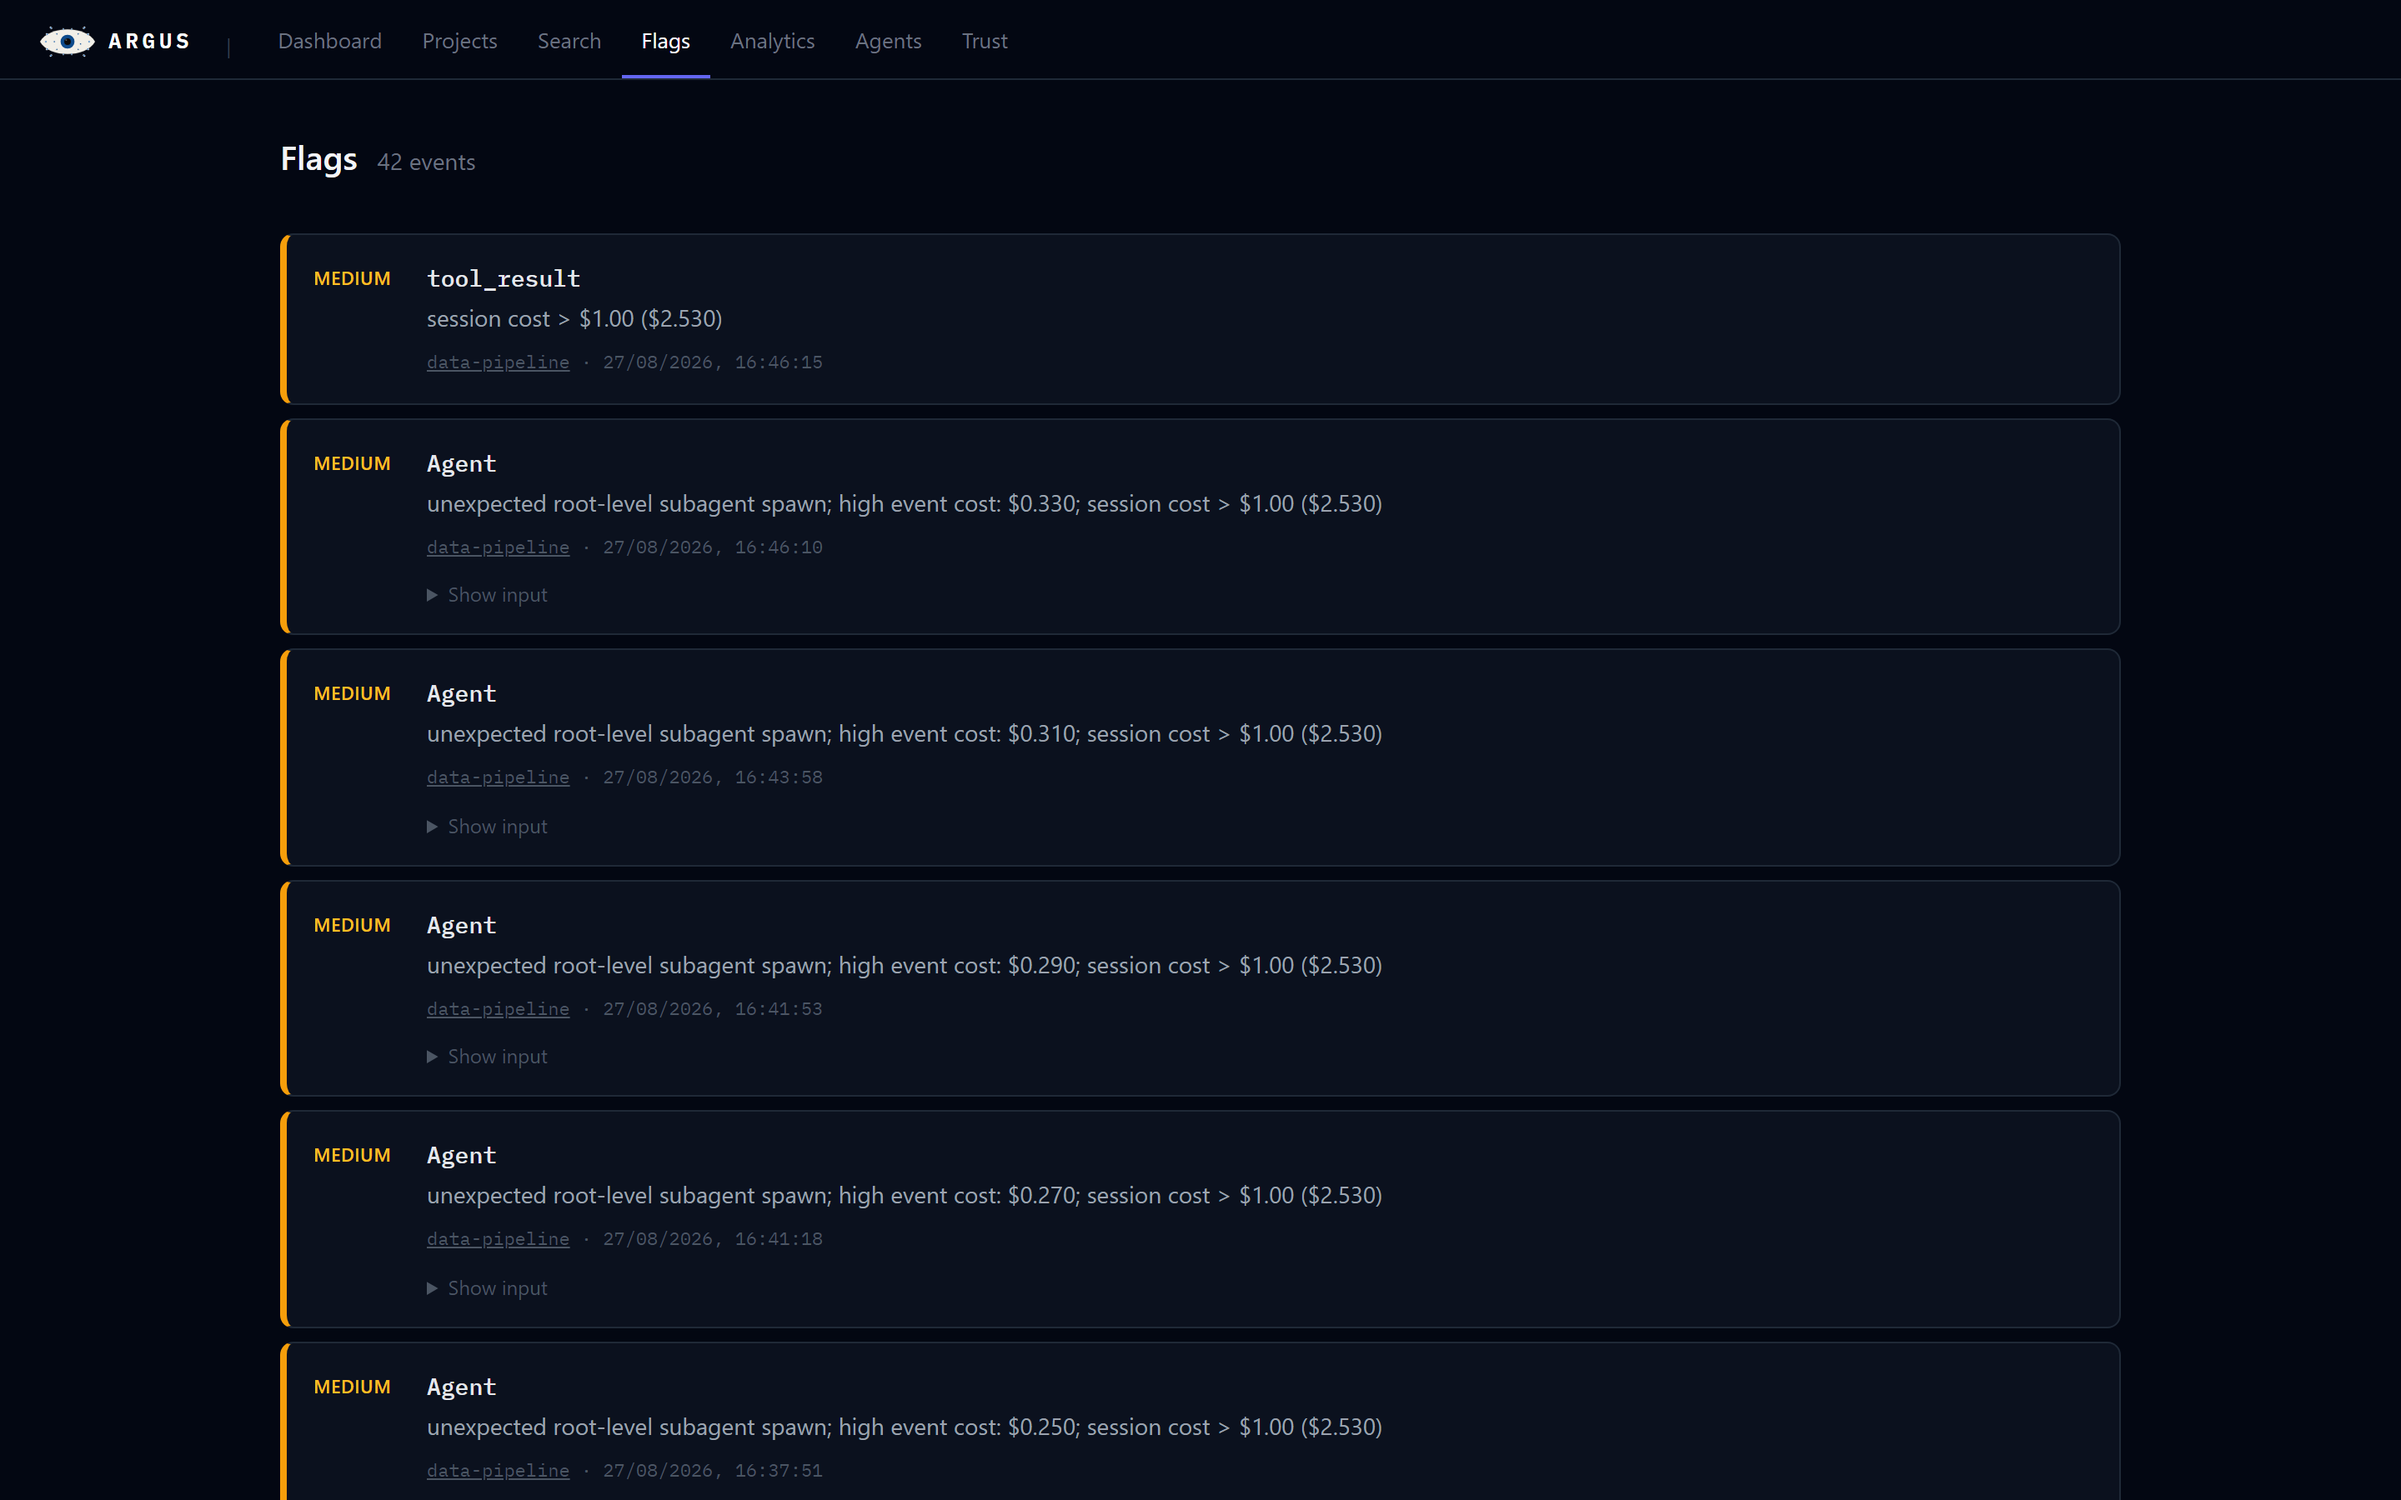
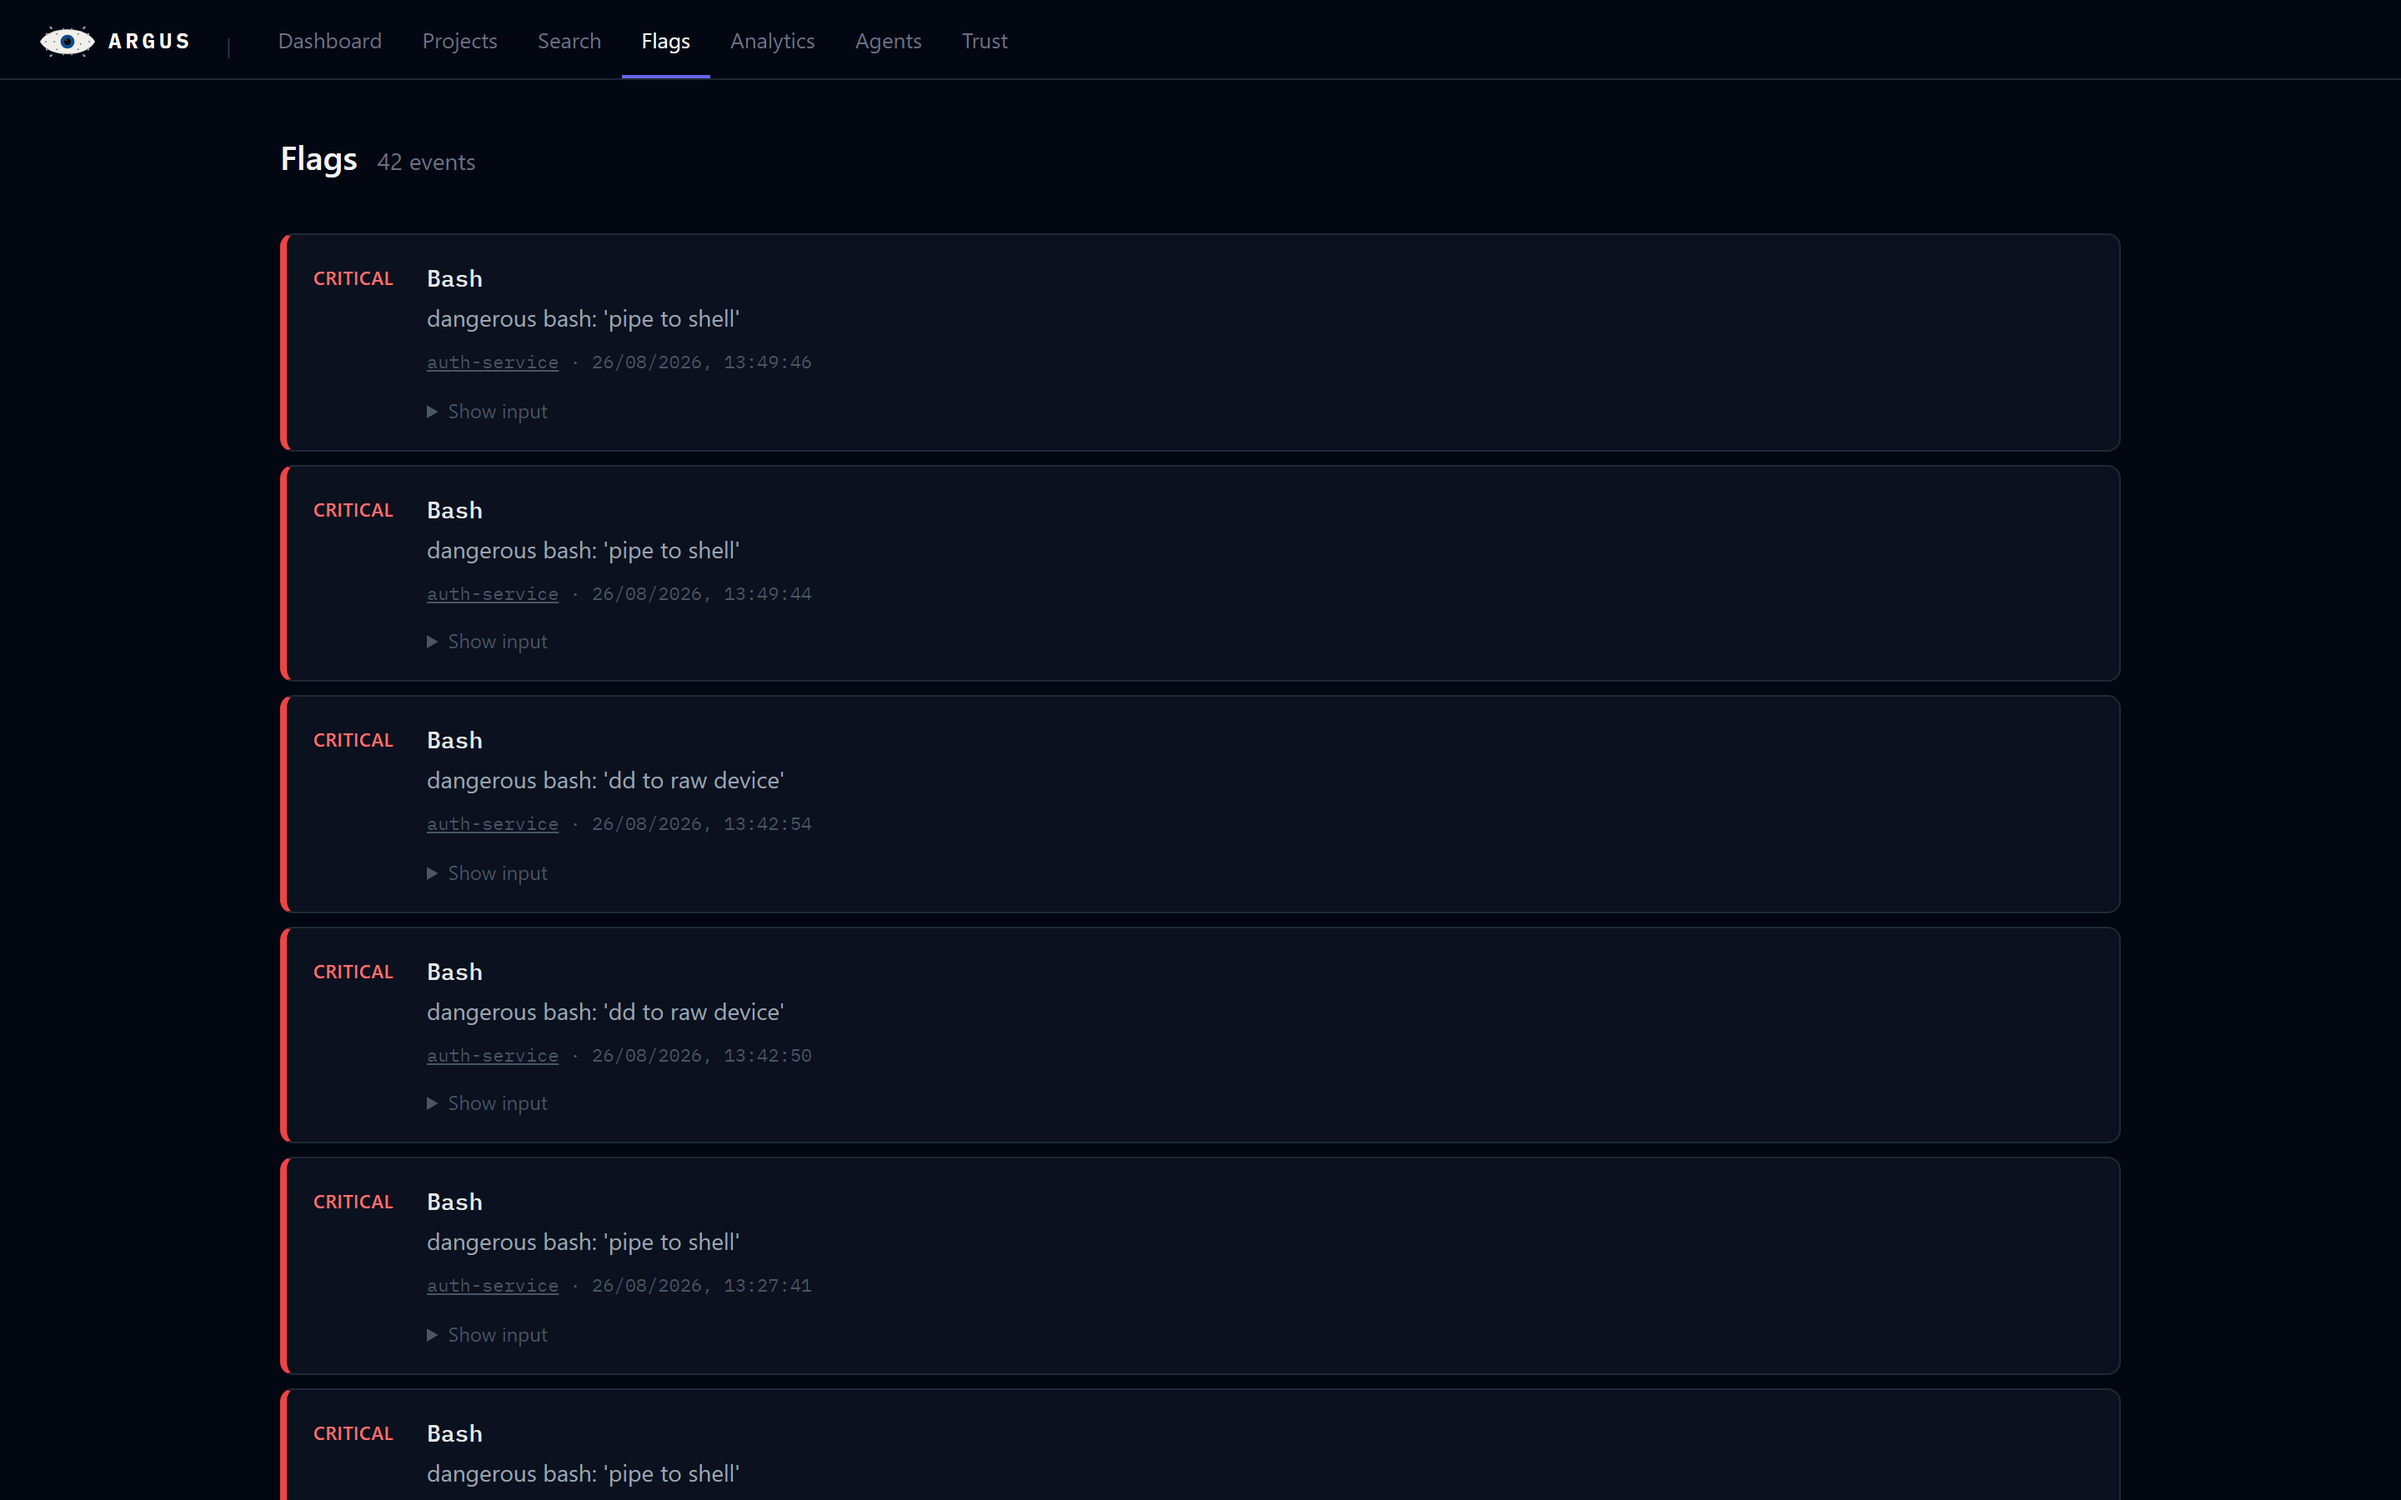
Order the flag feed by severity, not just recency
The feed sorted purely by timestamp, so whichever rule fired most recently led —
and in practice that meant six near-identical cost warnings from one expensive
session sat above every critical detection. A pipe-to-shell and a dd-to-raw-device
were below the fold on the page a person looks at first.

An alert feed that buries criticals under cost warnings is backwards regardless
of the data. Now ordered by severity rank, then recency. SQLite has no ordering
for the severity words, so the rank is applied in Python.

Also: an event with no tool (a session-level cost flag, a compaction) fell back
to the raw event type, so the feed rendered "tool_result" as a heading. Those now
map to readable labels.

Claude-Session: https://claude.ai/code/session_01YZFCXMCgXthyavM5CpMp4M

Changed region(s): [[0.0938, 0.2489, 0.5625, 0.9956], [0.1562, 0.1867, 0.3438, 0.2489], [0.125, 0.1556, 0.1562, 0.1867]]

diff --git a/frontend/src/pages/Flags.jsx b/frontend/src/pages/Flags.jsx
@@ -9,6 +9,16 @@ function severity(flag) {
   return (flag.severity || 'info').toLowerCase()
 }
 
+// An event with no tool (a session-level cost flag, a compaction) fell back to
+// the raw type string, so the feed showed "tool_result" as a heading.
+const TYPE_LABELS = {
+  tool_result: 'Session',
+  tool_call: 'Session',
+  subagent_spawn: 'Subagent',
+  compaction: 'Compaction',
+  error: 'Error',
+}
+
 const SEV = {
   critical: { border: 'border-l-red-500',    label: 'text-red-400' },
   high:     { border: 'border-l-orange-500', label: 'text-orange-400' },
@@ -68,7 +78,7 @@ export default function Flags() {
                   <div className="flex-1 min-w-0">
                     <div className="flex items-center gap-2 mb-1">
                       <span className="font-mono text-sm font-medium text-gray-200">
-                        {flag.tool_name || flag.type}
+                        {flag.tool_name || TYPE_LABELS[flag.type] || flag.type}
                       </span>
                     </div>
                     <div className="text-sm text-gray-400 mb-2">{flag.flag_reason}</div>

diff --git a/backend/routers/flags.py b/backend/routers/flags.py
@@ -1,7 +1,10 @@
+from datetime import datetime
+
 from fastapi import APIRouter, Depends
 from sqlmodel import Session, select
 
 from database import get_session
+from ingest import SEVERITY_RANK
 from models import Event
 from models import Session as SessionModel
 
@@ -15,9 +18,18 @@ def list_flags(db: Session = Depends(get_session)) -> list[dict]:
     Each entry includes the event fields plus project_path and session_status
     from the parent session.
     """
-    flagged = db.exec(
-        select(Event).where(Event.flagged).order_by(Event.timestamp.desc())
-    ).all()
+    # Worst first, then newest. Ordering purely by time buries a critical
+    # pipe-to-shell detection under whatever cost warnings happened to fire most
+    # recently — which is backwards for an alert feed, and it is the first screen
+    # anyone looks at. SQLite has no ordering for our severity words, so the rank
+    # is applied in Python.
+    flagged = db.exec(select(Event).where(Event.flagged)).all()
+    flagged = sorted(
+        flagged,
+        key=lambda e: (SEVERITY_RANK.get((e.severity or "").lower(), -1),
+                       e.timestamp or datetime.min),
+        reverse=True,
+    )
 
     result = []
     for event in flagged:
